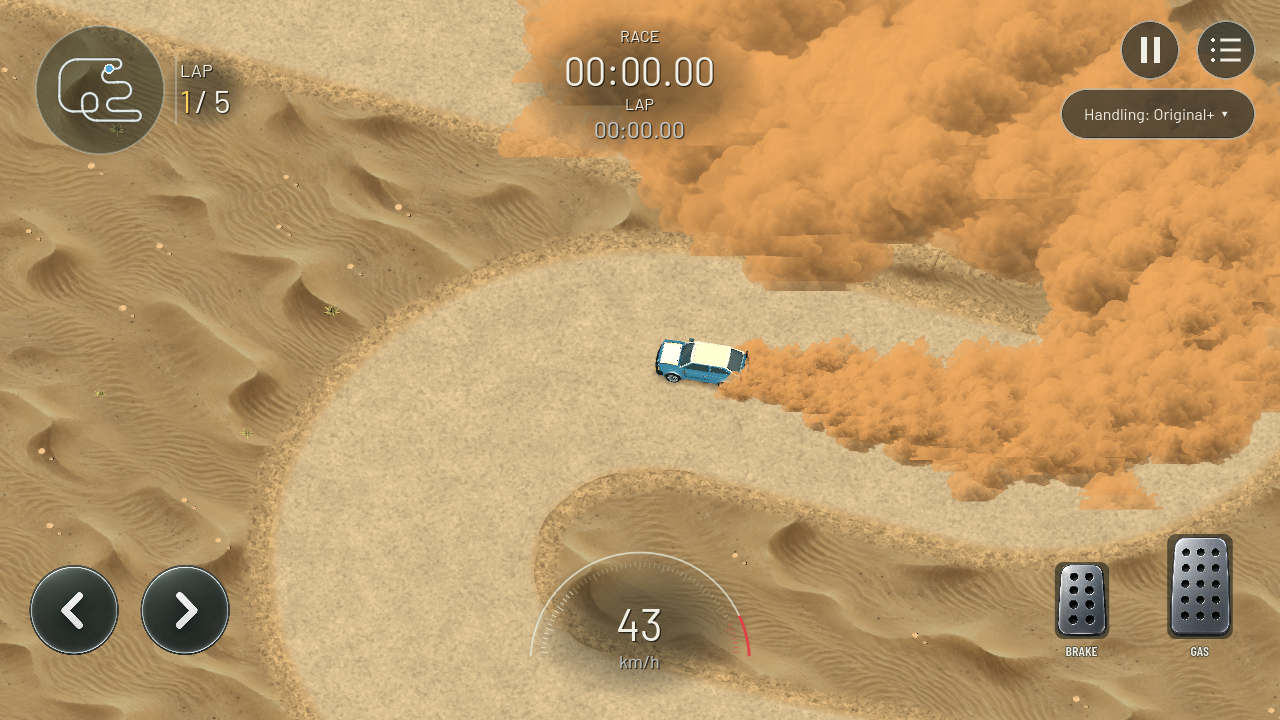
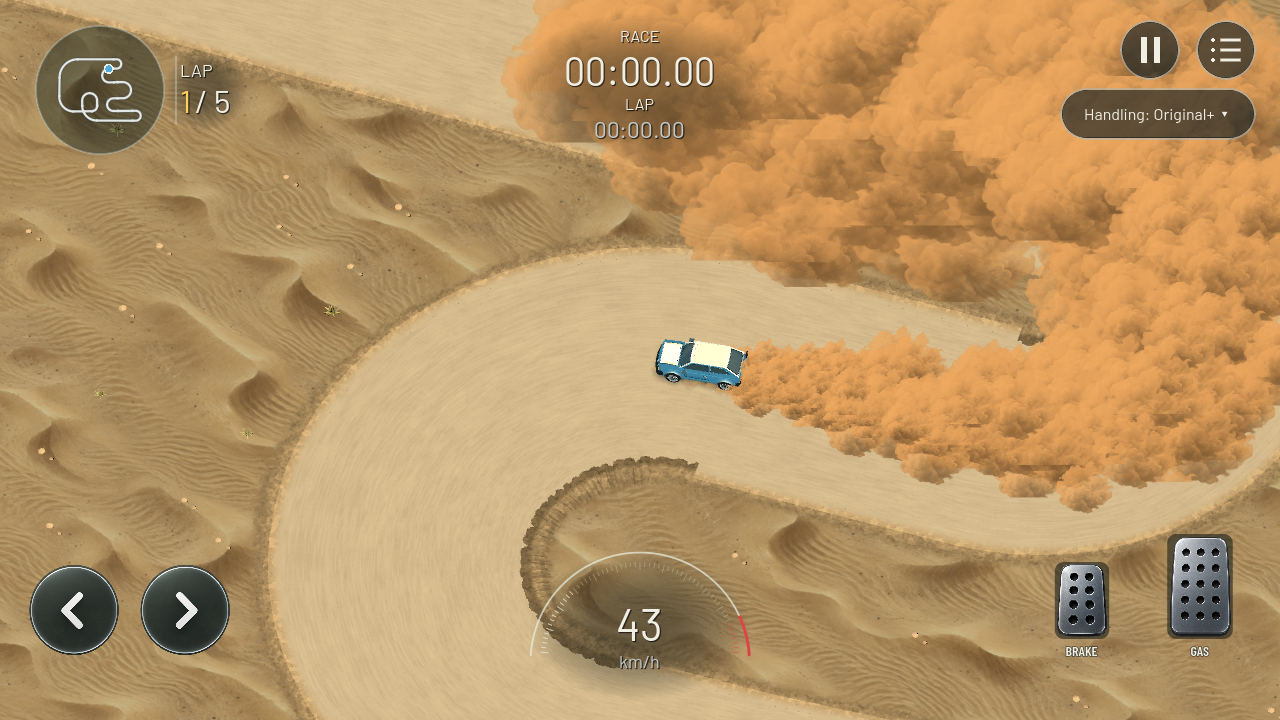
Restore curve banks and align desert road wear through bends

diff --git a/docs/DESERT_DIRECTIONAL.md b/docs/DESERT_DIRECTIONAL.md
@@ -1,0 +1,15 @@
+# Directional desert road and restored curve banks
+
+2026-09-24, V02/V04/V05/Q01, visual kit 63. Owner preferred the kit-61 curve bank and rejected the broad flat transition of kit 62. Restore that curve-bank cross section and roughness; straight shoulders remain flat and are darker compacted earth. Shoulder base width is now 1.75 m plus existing bounded irregular variation.
+
+The road now has explicit distance-along/signed-distance-across UVs projected onto each piece centreline. Two anisotropically sampled existing baked fields create elongated fine wear that follows bends. Isotropic road speckle is reduced. Desert road triangles are subdivided toward 2 m maximum edges (depth capped at 12) to avoid interpolating UVs across large curved polygons. This increases mesh vertices and construction work, but keeps existing material batches and adds no texture assets. Canonical collision/road cells are unchanged. Piece-coordinate seams and large intersections still need motion review; no seamlessness or zero performance cost is claimed.
+
+Changed `game/track/native_track_visual.gd`, `surface_detail.gdshaderinc`, `creator_road.gdshader`, status/plan and evidence. No lighting, camera, dust or physics change. The latest owner instruction supersedes the previous attempt to remove the curve-bank pattern.
+
+[Inspected final gameplay capture](evidence/desert-directional/directional-road.png).
+
+Actual command through pinned Godot 4.7.2 entry `powershell -NoProfile -ExecutionPolicy Bypass -File scripts/dev.ps1 -Action CaptureDesert -Track track_3e26605a8a90165e`: 50 checks, zero failures after final UV subdivision. Includes five-car deterministic behavior, packed/loose traction, dust and surface invariants. An earlier UV trial visibly warped across large triangles and was corrected before this capture.
+
+Remaining: owner visual approval, moving-camera seam/aliasing review, device frame pacing and track-load cost. Reference scenery density is not part of this correction.
+
+`-Action TestSurfaces`: 50 checks pass. Final `-Action ExportAndroid -QuickValidation`: successful import/startup, 74 driving, 18 catalog and 22 menu checks; APK exported. SDK `adb install -r build/android/circuit01-debug.apk`: Success on attached phone. No device rendering/performance test performed. Existing build-tools 35.0.1 fallback and driving-test shutdown leaks remain.

diff --git a/docs/PHASE_0_PLAN.md b/docs/PHASE_0_PLAN.md
@@ -1,5 +1,7 @@
 # Phase 0: specification review and first slice
 
+2026-09-24 V02/V04/V05/Q01: kit 63 restores the owner-preferred curve-bank pattern, leaves straight shoulders flat/darker and maps compacted road grain along/across each road piece. Bounded road subdivision avoids warped interpolation through bends. CaptureDesert 50 checks pass; gameplay evidence inspected. See docs/DESERT_DIRECTIONAL.md.
+
 2026-09-24 V02/V04/V05/Q01: kit 62 replaces corrugated desert banks with a broader four-band transition: worn contact, low deposited sand ridge and loose grit into dunes. Road-edge blending widens to 0.56 m; shoulder width 1.8-2.4 m. CaptureDesert 50 and TestSurfaces 50 pass; screenshot inspected. See docs/DESERT_TRANSITION.md.
 
 2026-09-24 V02/V04/V05/Q01: kit 61 replaces visible desert creator kerbs with low irregular sand banks, softens straight shoulders and adds road-axis filtered wear. CaptureDesert 50 and TestSurfaces 50 checks pass. Desktop evidence inspected; see docs/DESERT_BERMS.md for scope and device limits.

diff --git a/DEVELOPMENT_STATUS.md b/DEVELOPMENT_STATUS.md
@@ -1,5 +1,7 @@
 # Development status
 
+2026-09-24 V02/V04/V05/Q01: kit 63 restores the owner-preferred curve-bank pattern, leaves straight shoulders flat/darker and maps compacted road grain along/across each road piece. Bounded road subdivision avoids warped interpolation through bends. CaptureDesert 50 checks pass; gameplay evidence inspected. See docs/DESERT_DIRECTIONAL.md.
+
 2026-09-24 V02/V04/V05/Q01: kit 62 replaces corrugated desert banks with a broader four-band transition: worn contact, low deposited sand ridge and loose grit into dunes. Road-edge blending widens to 0.56 m; shoulder width 1.8-2.4 m. CaptureDesert 50 and TestSurfaces 50 pass; screenshot inspected. See docs/DESERT_TRANSITION.md.
 
 2026-09-24 V02/V04/V05/Q01: kit 61 replaces visible desert creator kerbs with low irregular sand banks, softens straight shoulders and adds road-axis filtered wear. CaptureDesert 50 and TestSurfaces 50 checks pass. Desktop evidence inspected; see docs/DESERT_BERMS.md for scope and device limits.
